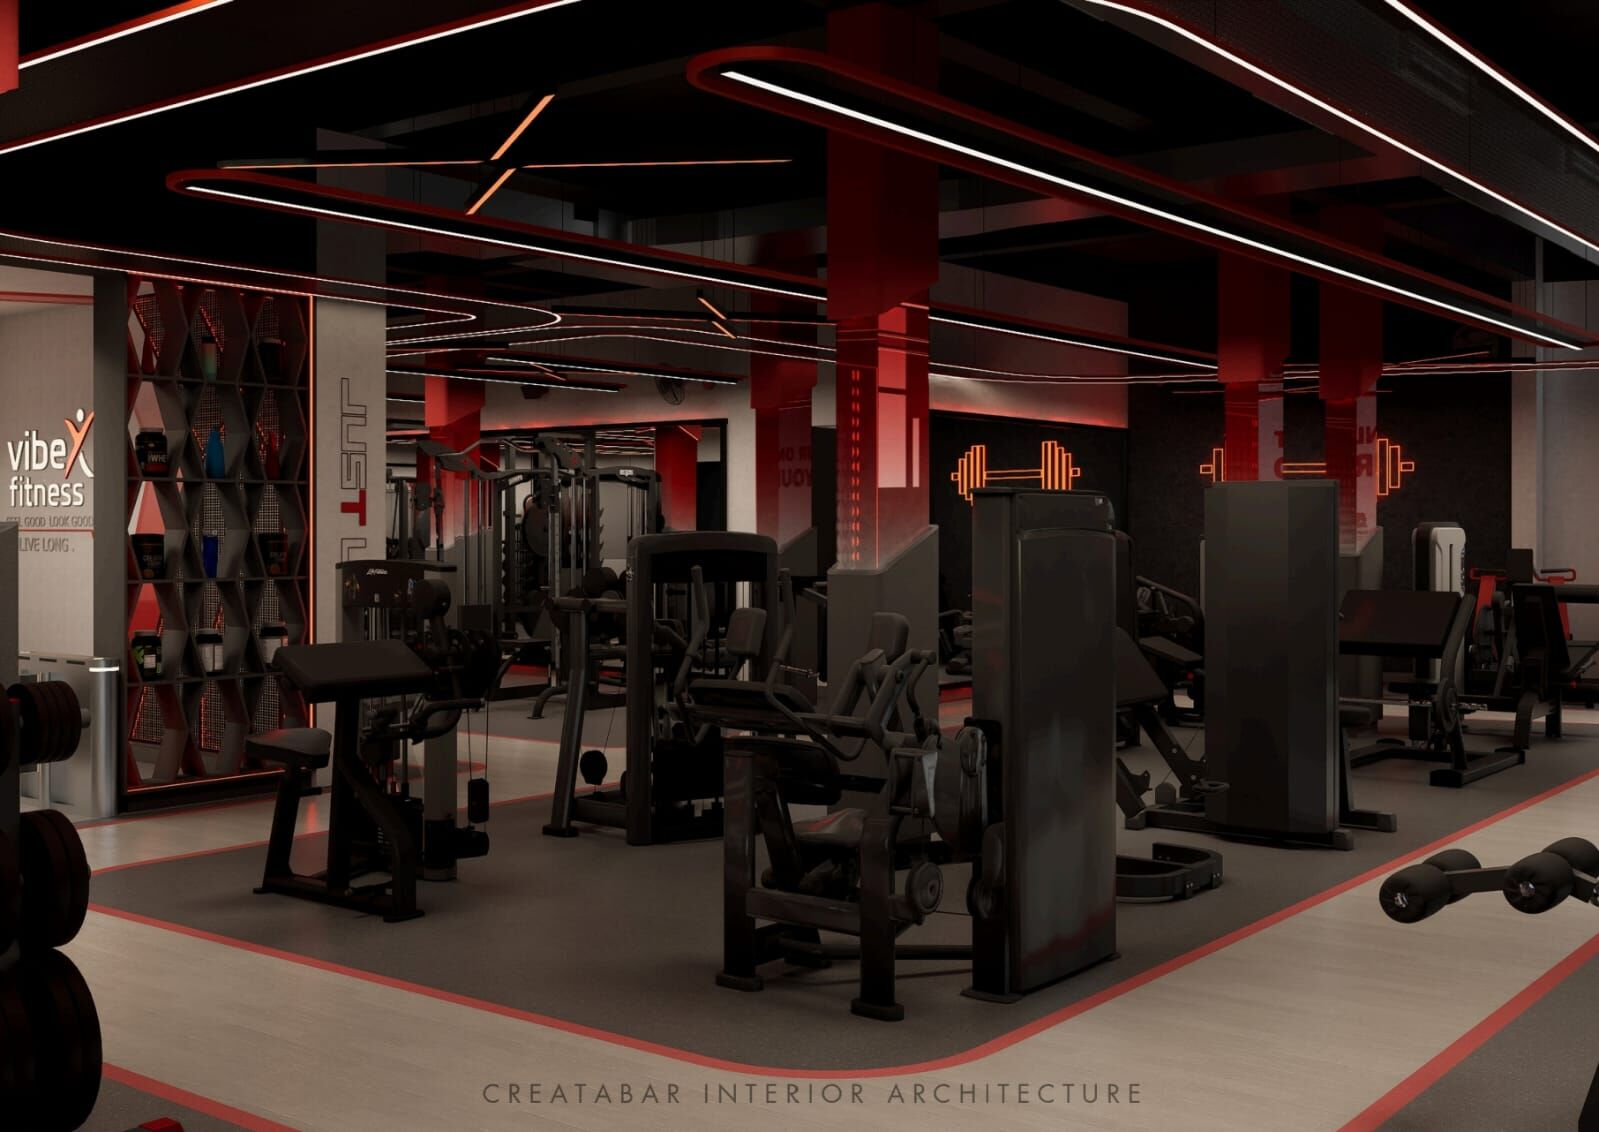
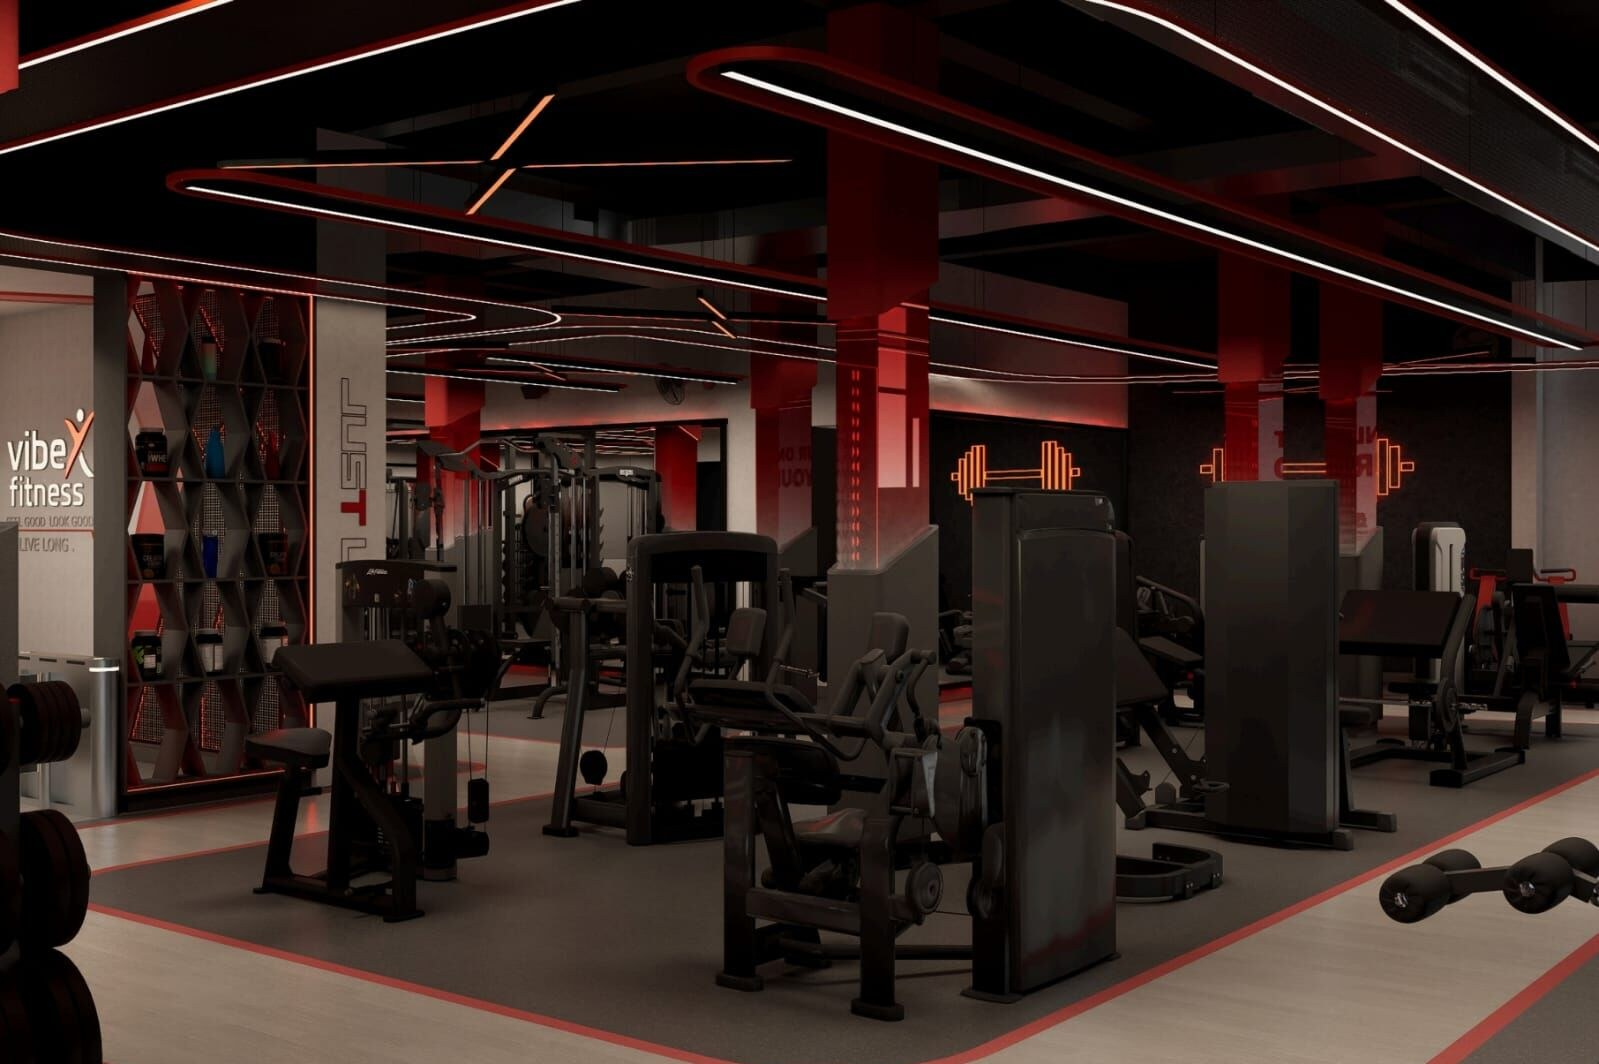
Add boxing, yoga, steam, ice bath and supplement bar renders; credit Creatabar; update address
Crop the Creatabar Interior Architecture watermark strip from the renders
(including machine-floor.jpg) and credit the studio on the site instead.

Claude-Session: https://claude.ai/code/session_0184KPqK7eScxvwHRJwwQkuo

diff --git a/index.html b/index.html
@@ -162,6 +162,7 @@
           <div class="container tour-head">
             <p class="eyebrow">02 — Step inside</p>
             <h2 class="section-title big">The <span class="accent">space</span>, before it opens.</h2>
+            <p class="design-credit">Interior design by <strong>Creatabar Interior Architecture</strong></p>
           </div>
           <div class="tour-track">
             <article class="tour-card">
@@ -183,6 +184,26 @@
             <article class="tour-card">
               <div class="tour-media"><img src="assets/designs/track.jpg" alt="Training track render beside floor-to-ceiling windows" loading="lazy" /></div>
               <div class="tour-meta"><span>05</span><h3>The track</h3><p>A red-lined walkway past full-height windows and free weights.</p></div>
+            </article>
+            <article class="tour-card">
+              <div class="tour-media"><img src="assets/designs/boxing.jpg" alt="Boxing area render with heavy bags inside a black steel cage" loading="lazy" /></div>
+              <div class="tour-meta"><span>06</span><h3>Boxing area</h3><p>A caged striking zone with heavy bags, a free-standing bag and padded flooring.</p></div>
+            </article>
+            <article class="tour-card">
+              <div class="tour-media"><img src="assets/designs/yoga.jpg" alt="Yoga studio render with mirrors, mats and indoor plants" loading="lazy" /></div>
+              <div class="tour-meta"><span>07</span><h3>Yoga studio</h3><p>Warm light, full mirrors and greenery for a calmer kind of training.</p></div>
+            </article>
+            <article class="tour-card">
+              <div class="tour-media"><img src="assets/designs/steam-bath.jpg" alt="Steam bath and jacuzzi rooms behind glass doors" loading="lazy" /></div>
+              <div class="tour-meta"><span>08</span><h3>Steam bath</h3><p>Glass-fronted heat rooms in the recovery suite.</p></div>
+            </article>
+            <article class="tour-card">
+              <div class="tour-media"><img src="assets/designs/ice-bath.jpg" alt="Recovery corridor with shower and ice bath rooms" loading="lazy" /></div>
+              <div class="tour-meta"><span>09</span><h3>Ice bath &amp; showers</h3><p>Cold plunge and showers along a dark-marble recovery corridor.</p></div>
+            </article>
+            <article class="tour-card">
+              <div class="tour-media"><img src="assets/designs/supplement-bar.jpg" alt="Supplement bar render with shelves, counter and red bar stools" loading="lazy" /></div>
+              <div class="tour-meta"><span>10</span><h3>Supplement bar</h3><p>Refuel at the counter before or after your session.</p></div>
             </article>
           </div>
           <div class="container tour-progress" aria-hidden="true"><span></span></div>
@@ -290,6 +311,7 @@
             <p class="eyebrow reveal">05 — Find us</p>
             <h2 class="section-title big reveal">Thekke Parayil <span class="accent">Arcade</span></h2>
             <p class="reveal">
+              <strong>Vibex Fitness Private Limited</strong><br />
               Thekke Parayil Building<br />
               Near Oravakkal–Puthirikkal Road<br />
               Kottayam, Kerala, India — PIN 686019
@@ -331,7 +353,7 @@
           </a>
           <div class="card">
             <h4>Address</h4>
-            <p>Thekke Parayil Building, Near Oravakkal–Puthirikkal Road, Kottayam</p>
+            <p>Vibex Fitness Private Limited,<br />Thekke Parayil Building, Near Oravakkal–Puthirikkal Road, Kottayam</p>
           </div>
         </div>
       </section>
@@ -340,7 +362,7 @@
     <footer class="site-footer">
       <div class="footer-mega" aria-hidden="true">vibe<span>x</span></div>
       <div class="container footer-inner">
-        <div>© <span id="year"></span> vibex fitness</div>
+        <div>© <span id="year"></span> Vibex Fitness Private Limited · Interior design by Creatabar Interior Architecture</div>
         <div class="footer-tagline">
           <span>FEEL GOOD, LOOK GOOD</span> &nbsp;|&nbsp; <strong>LIVE STRONG.</strong>
         </div>

diff --git a/styles.css b/styles.css
@@ -237,6 +237,8 @@ a{color:var(--text); text-decoration:none}
 .stat{border:1px solid var(--border); border-radius:18px; padding:1rem 1.2rem; background:rgba(255,255,255,.02)}
 .stat strong{display:block; font-family:var(--display); font-weight:900; font-size:clamp(1.8rem, 4vw, 2.6rem); line-height:1; color:var(--red); text-shadow:0 0 18px var(--red-glow)}
 .stat span{display:block; margin-top:.4rem; font-size:.75rem; letter-spacing:1.5px; text-transform:uppercase; color:var(--muted)}
+.design-credit{margin:.8rem 0 0; font-size:.75rem; letter-spacing:1.5px; text-transform:uppercase; color:var(--muted)}
+.design-credit strong{color:var(--brand-cream, #f3eee4); font-weight:600}
 .zones-lede{max-width:46ch; margin:1rem 0 0}
 .checklist{list-style:none; padding:0; margin:0}
 .checklist li{
